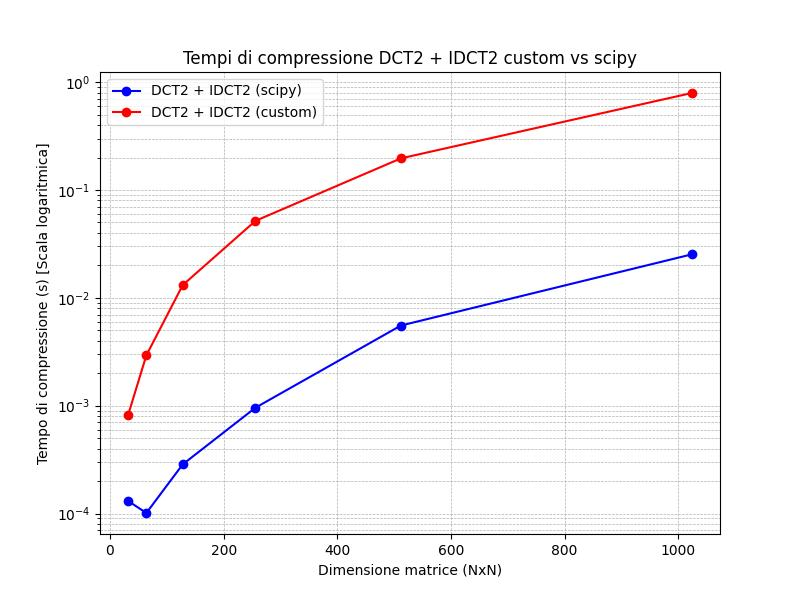
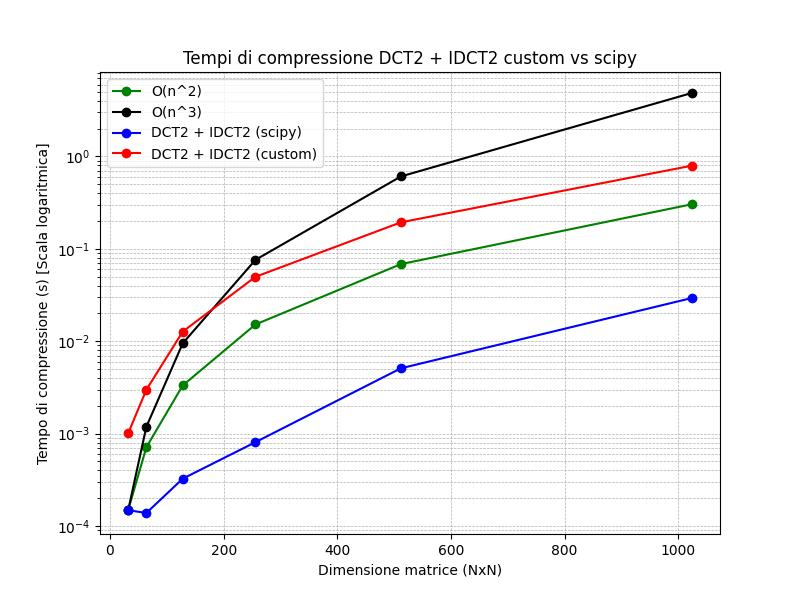
potenziato il benchmarking tool

diff --git a/benchmark.py b/benchmark.py
@@ -44,10 +44,21 @@ def main():
         end = time.perf_counter()
         elapsed_time = end - start
         times_c.append(elapsed_time)
+    sizes_np = np.array(sizes, dtype=np.float64)
+    nlogn = sizes_np**2 * np.log2(sizes_np)  # perché fai DCT2 su matrice NxN
+    n3 = sizes_np**3
 
+    norm_factor = times[0] / nlogn[0]
+    nlogn_curve = norm_factor * nlogn
+
+    norm_factor3 = times[0] / n3[0]
+    n3_curve = norm_factor3 * n3
 
     # Grafico semilogaritmico
     plt.figure(figsize=(8,6))
+    plt.semilogy(sizes, nlogn_curve, marker='o', linestyle='-', color='green', label='O(n^2)')
+    plt.semilogy(sizes, n3_curve, marker='o', linestyle='-', color='black', label='O(n^3)')
+
     plt.semilogy(sizes, times, marker='o', linestyle='-', color='blue', label='DCT2 + IDCT2 (scipy)')
     plt.semilogy(sizes, times_c, marker='o', linestyle='-', color='red', label='DCT2 + IDCT2 (custom)')
     plt.xlabel("Dimensione matrice (NxN)")
